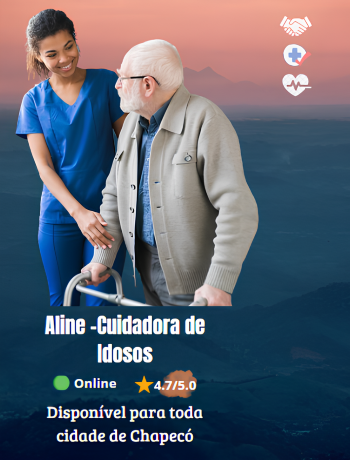
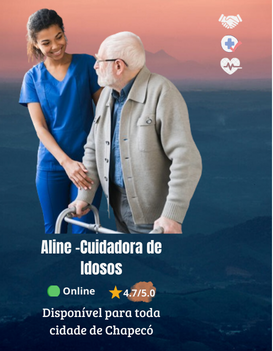
Index finalizado e serviço script ajustado

diff --git a/Front Relpi/crudServiço.js b/Front Relpi/crudServiço.js
@@ -50,9 +50,10 @@ document.addEventListener('DOMContentLoaded', function() {
     function createUserRow(record) {
         const newRow = document.createElement('tr');
         newRow.innerHTML = `
-            <td>${record.nome}</td>
-            <td>${record.descricao}</td>
+            <td>${record.nomeDoServiço}</td>
+            <td>${record.descrição}</td>
             <td>${record.id}</td>
+            <td>${record.idTipoDeServiço}</td>
             <td>
                 <button class="btn_action_pencil"><i class="fa-solid fa-pencil"></i></button>
                 <button class="btn_action_erase"><i class="fa-solid fa-xmark"></i></button>
@@ -68,8 +69,8 @@ document.addEventListener('DOMContentLoaded', function() {
         // Obtenha os valores dos campos do formulário
         const nomeInput = document.getElementById('nomeDoServiço').value;
         const descricaoInput = document.getElementById('descrição').value;
-        //const tipoServicoInput = document.getElementById('idTipoDeServiço').value; // Obtenha o tipo de serviço selecionado
         const idInput = document.getElementById('id').value;
+        const idTipoDeServiçoInput = document.getElementById('idTipoDeServiço').value;
 
         // Verifique se os campos estão vazios
         if (nomeInput.trim() === '' || tipoServicoInput.trim() === '') {
@@ -86,7 +87,8 @@ document.addEventListener('DOMContentLoaded', function() {
             body: JSON.stringify({
                 nome: nomeInput,
                 descricao: descricaoInput,
-                id: idInput
+                id: idInput,
+                idTipoDeServiço: idTipoDeServiçoInput
                 //tipoServicoId: tipoServicoInput // Envie o ID do tipo de serviço selecionado
             })
         })
@@ -105,7 +107,7 @@ document.addEventListener('DOMContentLoaded', function() {
     document.querySelector('#user-list').addEventListener('click', function(event) {
         if (event.target.classList.contains('btn_action_erase') || event.target.classList.contains('fa-xmark')) {
             const row = event.target.closest('tr');
-            const id = row.cells[1].textContent; // Assumindo que o ID está na segunda coluna
+            const id = row.cells[2].textContent; // Assumindo que o ID está na segunda coluna
             // Remove a linha da tabela
             fetch(`http://localhost:8080/servico/${id}`, {
                 method: 'DELETE'
@@ -128,12 +130,12 @@ document.addEventListener('DOMContentLoaded', function() {
     
             const nomeDoServiçoInput = document.getElementById('nomeDoServiço');
             const descriçãoInput = document.getElementById('descrição');
-            //const idTipoDeServicoInput = document.getElementById('idTipoDeServiço');
+            const idTipoDeServicoInput = document.getElementById('idTipoDeServiço');
             const idInput = document.getElementById('id');
     
             const nomeBusca = nomeDoServiçoInput.value.toLowerCase();
             const descriçãoBusca = descriçãoInput.value.toLowerCase();
-            //const idTipoDeServicoBusca = idTipoDeServicoInput.value.toLowerCase();
+            const idTipoDeServicoBusca = idTipoDeServicoInput.value.toLowerCase();
             const idBusca = idInput.value.toLowerCase();
 
     
@@ -142,12 +144,12 @@ document.addEventListener('DOMContentLoaded', function() {
             rows.forEach(function(row) {
                 const nome = row.cells[0].textContent.toLowerCase();
                 const descricao = row.cells[1].textContent.toLowerCase();
-                //const idTipoDeServico = row.cells[2].textContent.toLowerCase();
+                const idTipoDeServico = row.cells[3].textContent.toLowerCase();
                 const id = row.cells[2].textContent.toLowerCase();
     
                 const match = (!nomeBusca || nome.includes(nomeBusca)) &&
                               (!descriçãoBusca || descricao.includes(descriçãoBusca)) &&
-                              //(!idTipoDeServicoBusca || idTipoDeServico.includes(idTipoDeServicoBusca)) &&
+                              (!idTipoDeServicoBusca || idTipoDeServico.includes(idTipoDeServicoBusca)) &&
                               (!idBusca || id.includes(idBusca));
 
     
@@ -203,7 +205,7 @@ document.addEventListener('DOMContentLoaded', function() {
                     nomeDoServico: document.getElementById('nomeDoServiço').value,
                     descricao: document.getElementById('descrição').value,
                     id: document.getElementById('id').value,
-                    //idTipoDeServico: document.getElementById('idTipoDeServiço').value
+                    idTipoDeServiço: document.getElementById('idTipoDeServiço').value
                     
                 };
         

diff --git a/Front Relpi/index.html b/Front Relpi/index.html
@@ -17,6 +17,7 @@
         <link rel="preconnect" href="https://fonts.gstatic.com" crossorigin>
         <link href="https://fonts.googleapis.com/css2?family=Inter:wght@400;700&family=Poppins:wght@300;400;500;700&display=swap" rel="stylesheet">
         <link href="https://fonts.googleapis.com/css2?family=Inter:wght@400;700&family=Josefin+Sans:wght@400;700&display=swap" rel="stylesheet">
+        <link rel="stylesheet" href="https://cdnjs.cloudflare.com/ajax/libs/font-awesome/6.5.2/css/all.min.css" integrity="sha512-SnH5WK+bZxgPHs44uWIX+LLJAJ9/2PkPKZ5QiAj6Ta86w+fsb2TkcmfRyVX3pBnMFcV7oQPJkl9QevSCWr3W6A==" crossorigin="anonymous" referrerpolicy="no-referrer" />
         <link rel="icon" type="image/x-icon" href="/img/Logo.svg">
     </head>
 
@@ -109,19 +110,19 @@
             <div class="imagem-container-banner">
                 <div class="imagem_banner">
                     <a href="#">
-                        <img id="img_banner" src="img/Logo.png" alt="">
+                        <i class="fa-solid fa-stethoscope"></i>
                         <p>Médicos gerais</p>
                     </a>
                 </div>
                 <div class="imagem_banner">
                     <a href="#">
-                        <img id="img_banner" src="img/Logo.png" alt="">
+                        <i class="fa-solid fa-tooth"></i>
                         <p>Dentistas</p>
                     </a>
                 </div>
                 <div class="imagem_banner">
                     <a href="#">
-                        <img id="img_banner" src="img/Logo.png" alt="">
+                        <i class="fa-solid fa-comments"></i>
                         <p>Psicólogos</p>
                     </a>
                 </div>
@@ -139,10 +140,10 @@
                         <div class="swiper-pagination"></div>
                         <div class="swiper-wrapper">
                         <div class="swiper-slide"><img src="img/José - médigo Geral.png" alt=""></div>
-                        <div class="swiper-slide"><img src="img/José - médigo Geral.png" alt=""></div>
-                        <div class="swiper-slide"><img src="img/José - médigo Geral.png" alt=""></div>
-                        <div class="swiper-slide"><img src="img/José - médigo Geral.png" alt=""></div>
-                        <div class="swiper-slide"><img src="img/José - médigo Geral.png" alt=""></div>
+                        <div class="swiper-slide"><img src="img/Aline - cuidadora de idosos.png" alt=""></div>
+                        <div class="swiper-slide"><img src="img/Marina - Enfermeira.png" alt=""></div>
+                        <div class="swiper-slide"><img src="img/Tulio - Dentista.png" alt=""></div>
+                        <div class="swiper-slide"><img src="img/Mel - Baba.png" alt=""></div>
                         </div>
                         <div class="swiper-button-prev"></div>
                         <div class="swiper-button-next"></div>
@@ -160,7 +161,6 @@
         </section>
 
         <hr/>
-
         
         <footer class="rodape">
             <h2 class="rodape_titulo">Abex IV - 2024</h2>

diff --git a/Front Relpi/crudServiço.html b/Front Relpi/crudServiço.html
@@ -105,6 +105,7 @@
                 <input id="nomeDoServiço" type="text" placeholder="Nome do serviço">
                 <input id="descrição" type="text" placeholder="Descrição">
                 <input id="id" type="text" placeholder="Id">
+                <input id="idTipoDeServiço" type="text" placeholder="Id do tipo de serviço">
                 <button class="btn_cadastro btn_add">Adicionar</button>
                 <button class="btn_cadastro btn_buscar">Buscar</button>
             </form>
@@ -113,6 +114,7 @@
                     <tr>
                         <th>Nome do serviço</th>
                         <th>Descrição</th>
+                        <th>Id</th>
                         <th>Código do serviço</th>
                         <th>Ações</th>
                     </tr>
@@ -122,6 +124,7 @@
                         <td>Exemplo</td>
                         <td>.........</td>
                         <td>124</td>
+                        <td>67</td>
                         <td>
                             <button class="btn_action_pencil"><i class="fa-solid fa-pencil"></i></button>
                             <button class="btn_action_erase"><i class="fa-solid fa-xmark"></i></button>

diff --git a/Front Relpi/styles/carrossel.css b/Front Relpi/styles/carrossel.css
@@ -93,6 +93,11 @@
     width:100%
 }
 
+.swiper-slide img {
+    width: 9em;
+    height: 13em;
+}
+
 @media screen and (min-width: 1024px){
     .carrossel_titulo{
         font-size: 26px;
@@ -135,6 +140,10 @@
         margin-top: 5px; /* Adiciona um pequeno espaço entre a imagem e o texto */
     }
 
+    .swiper-slide img {
+        width: 16em;
+        height: 20em;
+    }
     
 }
 
@@ -182,5 +191,10 @@
     
     .imagem-container p {
         margin-top: 5px; /* Adiciona um pequeno espaço entre a imagem e o texto */
+    }
+
+    .swiper-slide img {
+        width: 30em;
+        height: 35em;
     }
 }

diff --git a/Front Relpi/styles/banner.css b/Front Relpi/styles/banner.css
@@ -10,6 +10,11 @@
     font-weight: 700;
 }
 
+.fa-solid{
+    font-size: 5em;
+    padding: 0.5em;
+}
+
 .banner_texto{
     font-weight: 500;
     margin: 1em 0;
@@ -60,6 +65,6 @@
     }
 
     .banner{
-        padding: 6em 0;
+        padding: 3em 0;
     }
 }
